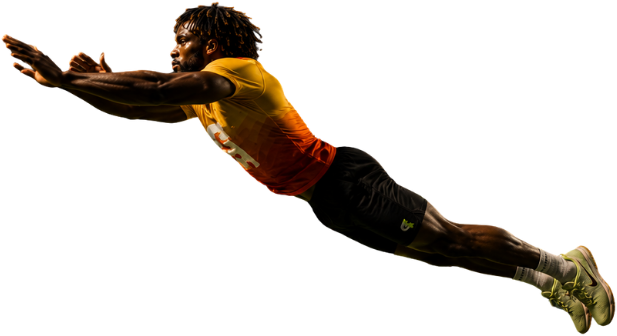
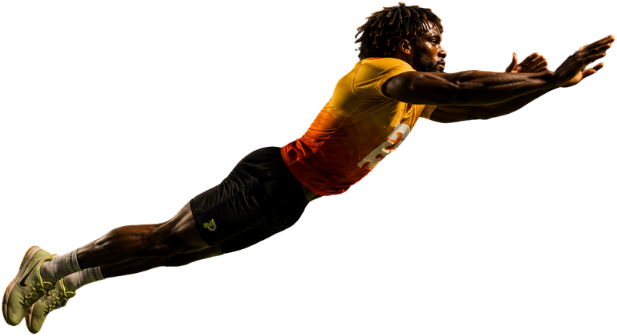
King Dac triple jump: add 7a + 7 takeoff-dive frames before the flight
Airborne sequence is now 7a -> 7 -> 3 -> 4 -> 5: two new in-between
takeoff frames rotate him into the superman flight smoothly.
Reverted the 3b mirror so all flight frames lead arms-forward
(legs trail on the dive, then tuck forward to land) — consistent,
no orientation flip. Takeoff dust now fires on frame 7a.

diff --git a/king-dac.html b/king-dac.html
@@ -882,12 +882,14 @@ document.addEventListener('keydown', e => { if(e.key === 'Escape') closeModal();
 
   // sprite frames cropped to figure: [src, origW, origH]
   var FR={
-    1:{src:'kd-pose1.png',w:121,h:497}, // stand
-    2:{src:'kd-pose2.png',w:258,h:357}, // load / crouch (ground)
-    3:{src:'kd-pose3.png',w:617,h:336}, // superman flight
-    4:{src:'kd-pose4.png',w:279,h:345}, // ascending knees up
-    5:{src:'kd-pose5.png',w:357,h:369}, // descending tuck
-    6:{src:'kd-pose6.png',w:313,h:384}  // landing absorb (ground)
+    1:{src:'kd-pose1.png',w:121,h:497},   // stand
+    2:{src:'kd-pose2.png',w:258,h:357},   // load / crouch (ground)
+    '7a':{src:'kd-pose7a.png',w:568,h:587},// takeoff dive (steep rise)
+    '7':{src:'kd-pose7.png',w:586,h:482},  // dive (flattening out)
+    3:{src:'kd-pose3.png',w:617,h:336},   // full superman flight
+    4:{src:'kd-pose4.png',w:279,h:345},   // tuck knees up
+    5:{src:'kd-pose5.png',w:357,h:369},   // descending reach
+    6:{src:'kd-pose6.png',w:313,h:384}    // landing absorb (ground)
   };
   for(var k in FR){ var pim=new Image(); pim.src=FR[k].src; }
 
@@ -940,11 +942,11 @@ document.addEventListener('keydown', e => { if(e.key === 'Escape') closeModal();
       if(u<0.16){            // load (frame 2) on the ground, slight dip
         frame=2; x=b[0];
         var lu=u/0.16; h = -3*Math.sin(Math.PI*lu);
-      } else if(u<0.84){     // airborne: 3 -> 4 -> 5 along the arc
+      } else if(u<0.84){     // airborne: 7a -> 7 -> 3 -> 4 -> 5 along the arc
         var au=(u-0.16)/0.68;
         x=lerp(b[0],b[1], ss(au));
         h=b[2]*Math.sin(Math.PI*au);
-        frame = au<0.34 ? 3 : (au<0.66 ? 4 : 5);
+        frame = au<0.20 ? '7a' : au<0.40 ? '7' : au<0.62 ? 3 : au<0.81 ? 4 : 5;
       } else {               // land (frame 6) — squash & recover
         frame=6; x=b[1];
         var ld=(u-0.84)/0.16;
@@ -1022,8 +1024,8 @@ document.addEventListener('keydown', e => { if(e.key === 'Escape') closeModal();
     }
     lastX=s.x;
     if(lastFrame!==s.frame){
-      if(s.frame===3) dust(s.x,GROUND);   // takeoff
-      if(s.frame===6) dust(s.x,GROUND);   // landing
+      if(s.frame==='7a') dust(s.x,GROUND); // takeoff
+      if(s.frame===6) dust(s.x,GROUND);    // landing
       lastFrame=s.frame;
     }
     var done=0; for(var i=0;i<3;i++){ if(p>=INTRO+i*bSpan+0.84*bSpan) done=i+1; }